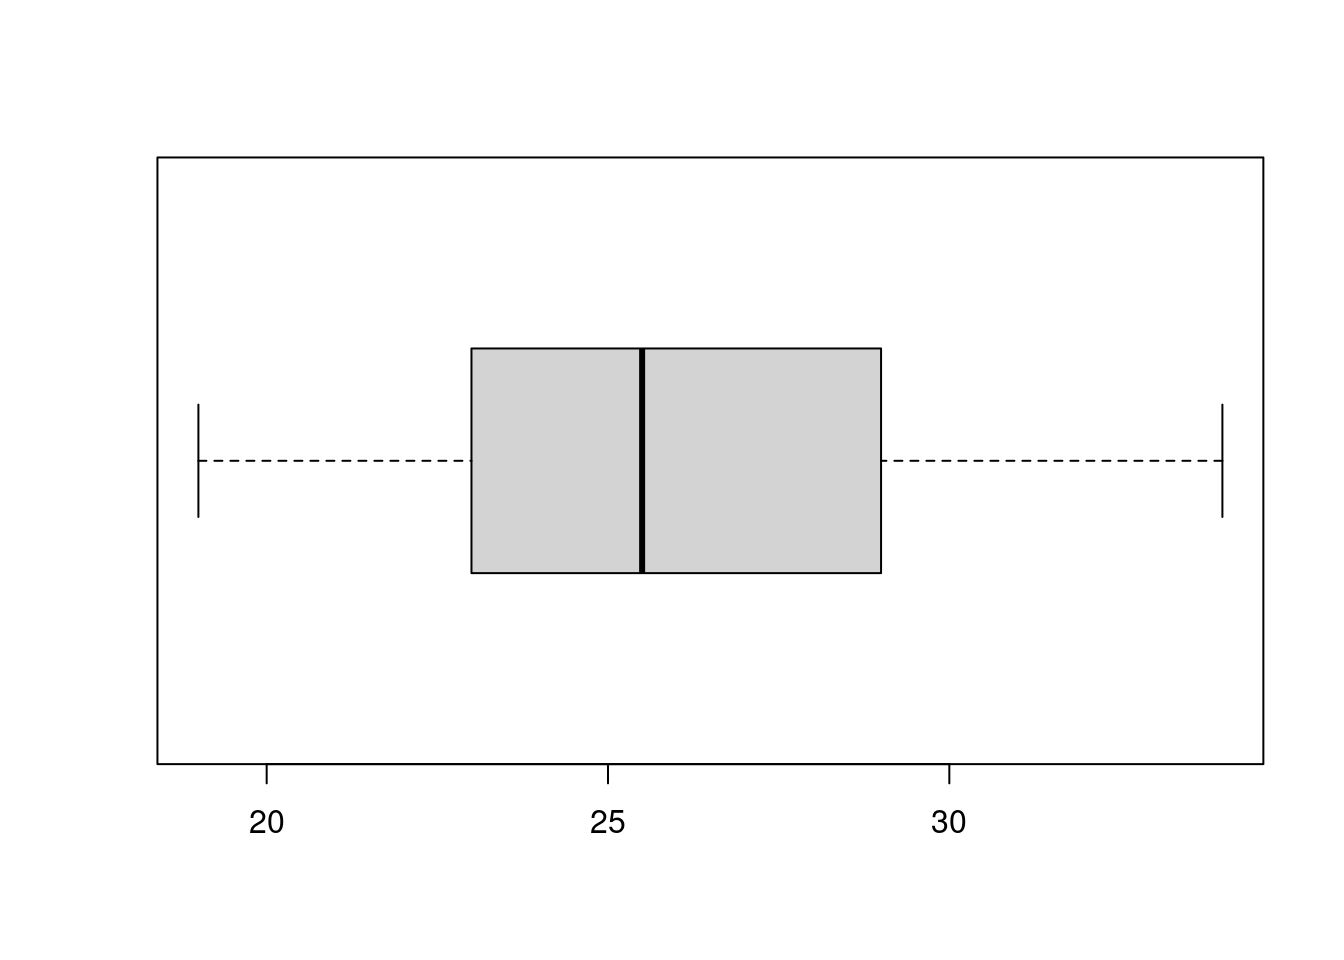
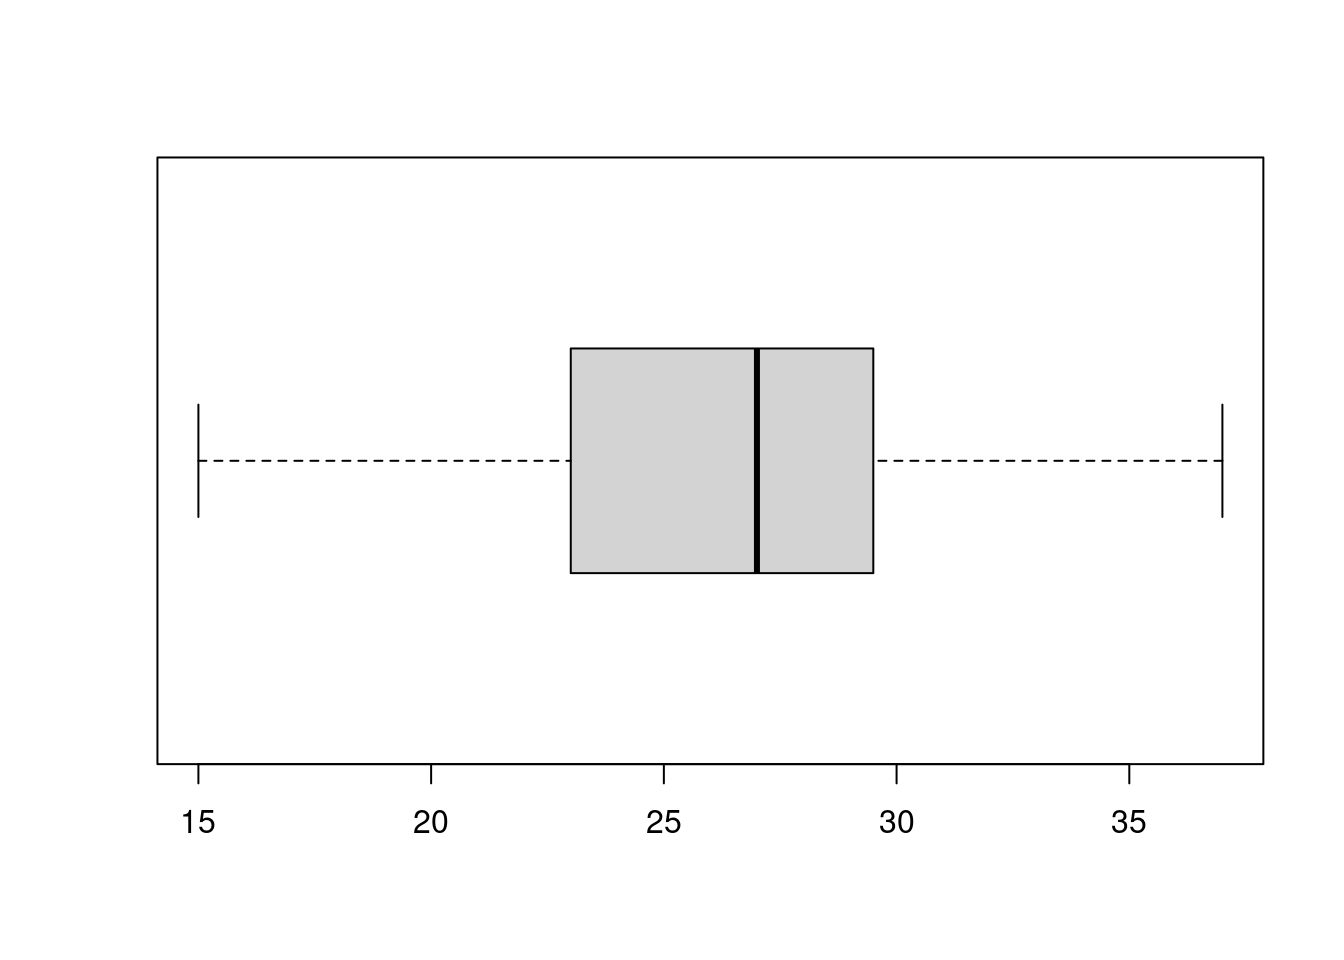
More Updates to Chapter 3

diff --git a/_book/what-is-statistics.html b/_book/what-is-statistics.html
@@ -24,7 +24,7 @@
 <meta name="author" content="Virgil U Pierce" />
 
 
-<meta name="date" content="2021-05-14" />
+<meta name="date" content="2021-05-17" />
 
   <meta name="viewport" content="width=device-width, initial-scale=1" />
   <meta name="apple-mobile-web-app-capable" content="yes" />
@@ -283,7 +283,7 @@ While I am collecting this data you can reflect on this funny musing. I grew up 
 <span id="cb3-5"><a href="what-is-statistics.html#cb3-5" aria-hidden="true" tabindex="-1"></a><span class="co"># students &lt;- {} </span></span>
 <span id="cb3-6"><a href="what-is-statistics.html#cb3-6" aria-hidden="true" tabindex="-1"></a></span>
 <span id="cb3-7"><a href="what-is-statistics.html#cb3-7" aria-hidden="true" tabindex="-1"></a>students</span></code></pre></div>
-<pre><code>##  [1] 30 23 25 32 29 25 31 21 29 26 24 27 26 21 24 21 23 34 27 19</code></pre>
+<pre><code>##  [1] 27 15 37 15 23 27 28 30 32 26 31 20 32 23 27 28 22 29 24 28</code></pre>
 <p><em>R Notes</em>: lists in R are enclosed in <em>curly braces</em> and each member of the list is separated by a <em>semi-colon</em> or a space; note I think leaving the space is bad practice and recommend not using that feature. In this case our list is a collection of integers. Lists can more generally be numbers or strings or even lists of lists.</p>
 <p>Comments in commands start with <em>hash symbols</em>.</p>
 <p>Another syntax note: R uses both = and &lt;- for assignment though they have slightly different meanings. They both work as you would expect, however &lt;- has some nice positives in the detailed differences and it is worth getting into the habit of using it.</p>
@@ -293,11 +293,11 @@ While I am collecting this data you can reflect on this funny musing. I grew up 
 <p>To get started we can use <em>summary</em> to get an overview of what our list of student enrollments look like. Review the meaning of each of these.</p>
 <div class="sourceCode" id="cb5"><pre class="sourceCode r"><code class="sourceCode r"><span id="cb5-1"><a href="what-is-statistics.html#cb5-1" aria-hidden="true" tabindex="-1"></a><span class="fu">summary</span>(students)</span></code></pre></div>
 <pre><code>##    Min. 1st Qu.  Median    Mean 3rd Qu.    Max. 
-##   19.00   23.00   25.50   25.85   29.00   34.00</code></pre>
+##   15.00   23.00   27.00   26.20   29.25   37.00</code></pre>
 <p>Mean and Median are <em>measures of center</em>, while the quartiles are <em>measures of spread</em>. One measure of spread missing is the variance or its square root standard deviation:</p>
 <div class="sourceCode" id="cb7"><pre class="sourceCode r"><code class="sourceCode r"><span id="cb7-1"><a href="what-is-statistics.html#cb7-1" aria-hidden="true" tabindex="-1"></a><span class="fu">var</span>(students); <span class="fu">sqrt</span>(<span class="fu">var</span>(students))</span></code></pre></div>
-<pre><code>## [1] 16.45</code></pre>
-<pre><code>## [1] 4.05586</code></pre>
+<pre><code>## [1] 30.16842</code></pre>
+<pre><code>## [1] 5.492579</code></pre>
 <p>The variance is computed by taking the sum of the square differences between the data and the mean and then dividing that by number of items minus one; we will explain why this is what we divide by later in class:
 <span class="math display">\[ S = \frac{1}{n-1} \sum_{j=1}^n (y_j - \bar{y} )^2 \]</span> where <span class="math inline">\(\bar{y}\)</span> is the mean of the sample made up of the <span class="math inline">\(\{ y_1, y_2, \dots, y_n \}\)</span>.</p>
 <p>In the code blocks below I will add some comments about what we are doing:</p>
@@ -307,17 +307,16 @@ While I am collecting this data you can reflect on this funny musing. I grew up 
 <span id="cb10-4"><a href="what-is-statistics.html#cb10-4" aria-hidden="true" tabindex="-1"></a></span>
 <span id="cb10-5"><a href="what-is-statistics.html#cb10-5" aria-hidden="true" tabindex="-1"></a><span class="co"># R can then do the arithmetic and when we combine a list of numbers with a single number and square it, it knows what we mean.</span></span>
 <span id="cb10-6"><a href="what-is-statistics.html#cb10-6" aria-hidden="true" tabindex="-1"></a>(students <span class="sc">-</span> ybar)<span class="sc">^</span><span class="dv">2</span></span></code></pre></div>
-<pre><code>##  [1] 17.2225  8.1225  0.7225 37.8225  9.9225  0.7225 26.5225 23.5225  9.9225
-## [10]  0.0225  3.4225  1.3225  0.0225 23.5225  3.4225 23.5225  8.1225 66.4225
-## [19]  1.3225 46.9225</code></pre>
+<pre><code>##  [1]   0.64 125.44 116.64 125.44  10.24   0.64   3.24  14.44  33.64   0.04
+## [11]  23.04  38.44  33.64  10.24   0.64   3.24  17.64   7.84   4.84   3.24</code></pre>
 <div class="sourceCode" id="cb12"><pre class="sourceCode r"><code class="sourceCode r"><span id="cb12-1"><a href="what-is-statistics.html#cb12-1" aria-hidden="true" tabindex="-1"></a><span class="co"># Then as we said, we sum over all of these and then divide by the number of them</span></span>
 <span id="cb12-2"><a href="what-is-statistics.html#cb12-2" aria-hidden="true" tabindex="-1"></a><span class="co"># minus 1</span></span>
 <span id="cb12-3"><a href="what-is-statistics.html#cb12-3" aria-hidden="true" tabindex="-1"></a></span>
 <span id="cb12-4"><a href="what-is-statistics.html#cb12-4" aria-hidden="true" tabindex="-1"></a><span class="fu">sum</span>( (students <span class="sc">-</span> ybar)<span class="sc">^</span><span class="dv">2</span> ) <span class="sc">/</span> ( <span class="fu">length</span>(students) <span class="sc">-</span> <span class="dv">1</span> )</span></code></pre></div>
-<pre><code>## [1] 16.45</code></pre>
+<pre><code>## [1] 30.16842</code></pre>
 <p>Note why we compute variance in this way. We are trying to understand how far the data moves from the mean <span class="math inline">\(\bar{y}\)</span>. However we can’t just sum over the differences as that will just add up to zero:</p>
 <div class="sourceCode" id="cb14"><pre class="sourceCode r"><code class="sourceCode r"><span id="cb14-1"><a href="what-is-statistics.html#cb14-1" aria-hidden="true" tabindex="-1"></a><span class="fu">sum</span>(students <span class="sc">-</span> ybar )</span></code></pre></div>
-<pre><code>## [1] -2.842171e-14</code></pre>
+<pre><code>## [1] 1.421085e-14</code></pre>
 <p>We have choices though, we could sum over the absolute value and indeed that does give us a notion of spread. However the advantage of summing over the squares is that it brings in tools from Calculus that work with quadratic expressions but not with absolute value expressions. We then intend to take an average. For reasons we will justify later, it turns out the correct average to do is to divide by the size of our sample minus 1: <span class="math inline">\(n-1\)</span> is called the degrees of freedom (roughly computing <span class="math inline">\(\bar{y}\)</span> from the sample has used up one degree of freedom).</p>
 <p>Note the units on these two statistics: the variance is the average of the sum of the squares (by the number of degrees of freedom) so its units are the square of the units of our sample data (<em>students squared</em> in this case); and then the standard deviation is the square root of the variance and so has units of the original data (<em>students</em> in this case).</p>
 </div>
